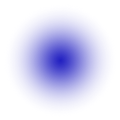
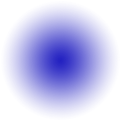
Hidden markers

diff --git a/components/home/Map.tsx b/components/home/Map.tsx
@@ -6,6 +6,7 @@ import MapView, { PROVIDER_GOOGLE, Marker, Region } from "react-native-maps";
 import { DestinationType } from "context/destination";
 import { GemType } from "app/gem";
 import Controls from "./map/Controls";
+import HiddenMarker from "./map/HiddenMarker";
 import mapStyle from "assets/map-style.json";
 import { detectDestination } from "utils/detect-destination";
 import { styleVars } from "utils/styles";
@@ -62,6 +63,7 @@ export default function Map(props: MapProps) {
 
         if (id === mountedID.current) {
           const gems = [];
+          hiddenGems.current = []; // Reset
 
           // Loop all returned Gems
           for (let i = 0; i < json.length; i++) {
@@ -135,8 +137,8 @@ export default function Map(props: MapProps) {
             lat <= bounds.northEast.latitude &&
             lng >= bounds.southWest.longitude &&
             lng <= bounds.northEast.longitude &&
-            region.latitudeDelta <= 0.025 &&
-            region.longitudeDelta <= 0.025
+            region.latitudeDelta <= 0.03 &&
+            region.longitudeDelta <= 0.03
           ) {
             gems.push(hiddenGems.current[i].uid); // Gem is within map bounds and map is zoomed in
           }
@@ -175,7 +177,7 @@ export default function Map(props: MapProps) {
         }}
       >
         {data.map((item, index) => {
-          if (!item.hidden || (item.hidden && visibleHiddenGems.includes(item.uid))) {
+          if (!item.hidden) {
             return (
               <Marker
                 key={index}
@@ -191,6 +193,12 @@ export default function Map(props: MapProps) {
                 tracksViewChanges={false}
                 onPress={() => pressed(item)}
               />
+            );
+          } else if (item.hidden && visibleHiddenGems.includes(item.uid)) {
+            return (
+              <Marker key={index} coordinate={item.data.location} onPress={() => pressed(item)}>
+                <HiddenMarker />
+              </Marker>
             );
           }
         })}

diff --git a/components/home/map/HiddenMarker.tsx b/components/home/map/HiddenMarker.tsx
@@ -1,0 +1,28 @@
+import React, { useEffect } from "react";
+import { StyleSheet } from "react-native";
+import { Image } from "expo-image";
+import Animated, { useSharedValue, withTiming, Easing, withRepeat, withDelay } from "react-native-reanimated";
+
+export default function HiddenMarker() {
+  const opacity = useSharedValue(0.25);
+
+  useEffect(() => {
+    opacity.value = withDelay(
+      Math.floor(Math.random() * 499),
+      withRepeat(withTiming(1, { duration: 1000, easing: Easing.inOut(Easing.quad) }), -1, true)
+    );
+  }, []);
+
+  return (
+    <Animated.View style={{ opacity }}>
+      <Image source={require("assets/img/markers/hidden.png")} style={styles.marker} />
+    </Animated.View>
+  );
+}
+
+const styles = StyleSheet.create({
+  marker: {
+    width: 40,
+    height: 40,
+  },
+});

diff --git a/components/home/map/Controls.tsx b/components/home/map/Controls.tsx
@@ -28,6 +28,8 @@ export default function Controls(props: ControlsProps) {
       props.setDestination(destination);
     } else {
       // Location access not granted
+      props.setIsLoading(false);
+
       Alert.alert("Location Access", "Allow Exceptional ALIEN to use your location in your device settings.", [
         {
           text: "Cancel",
